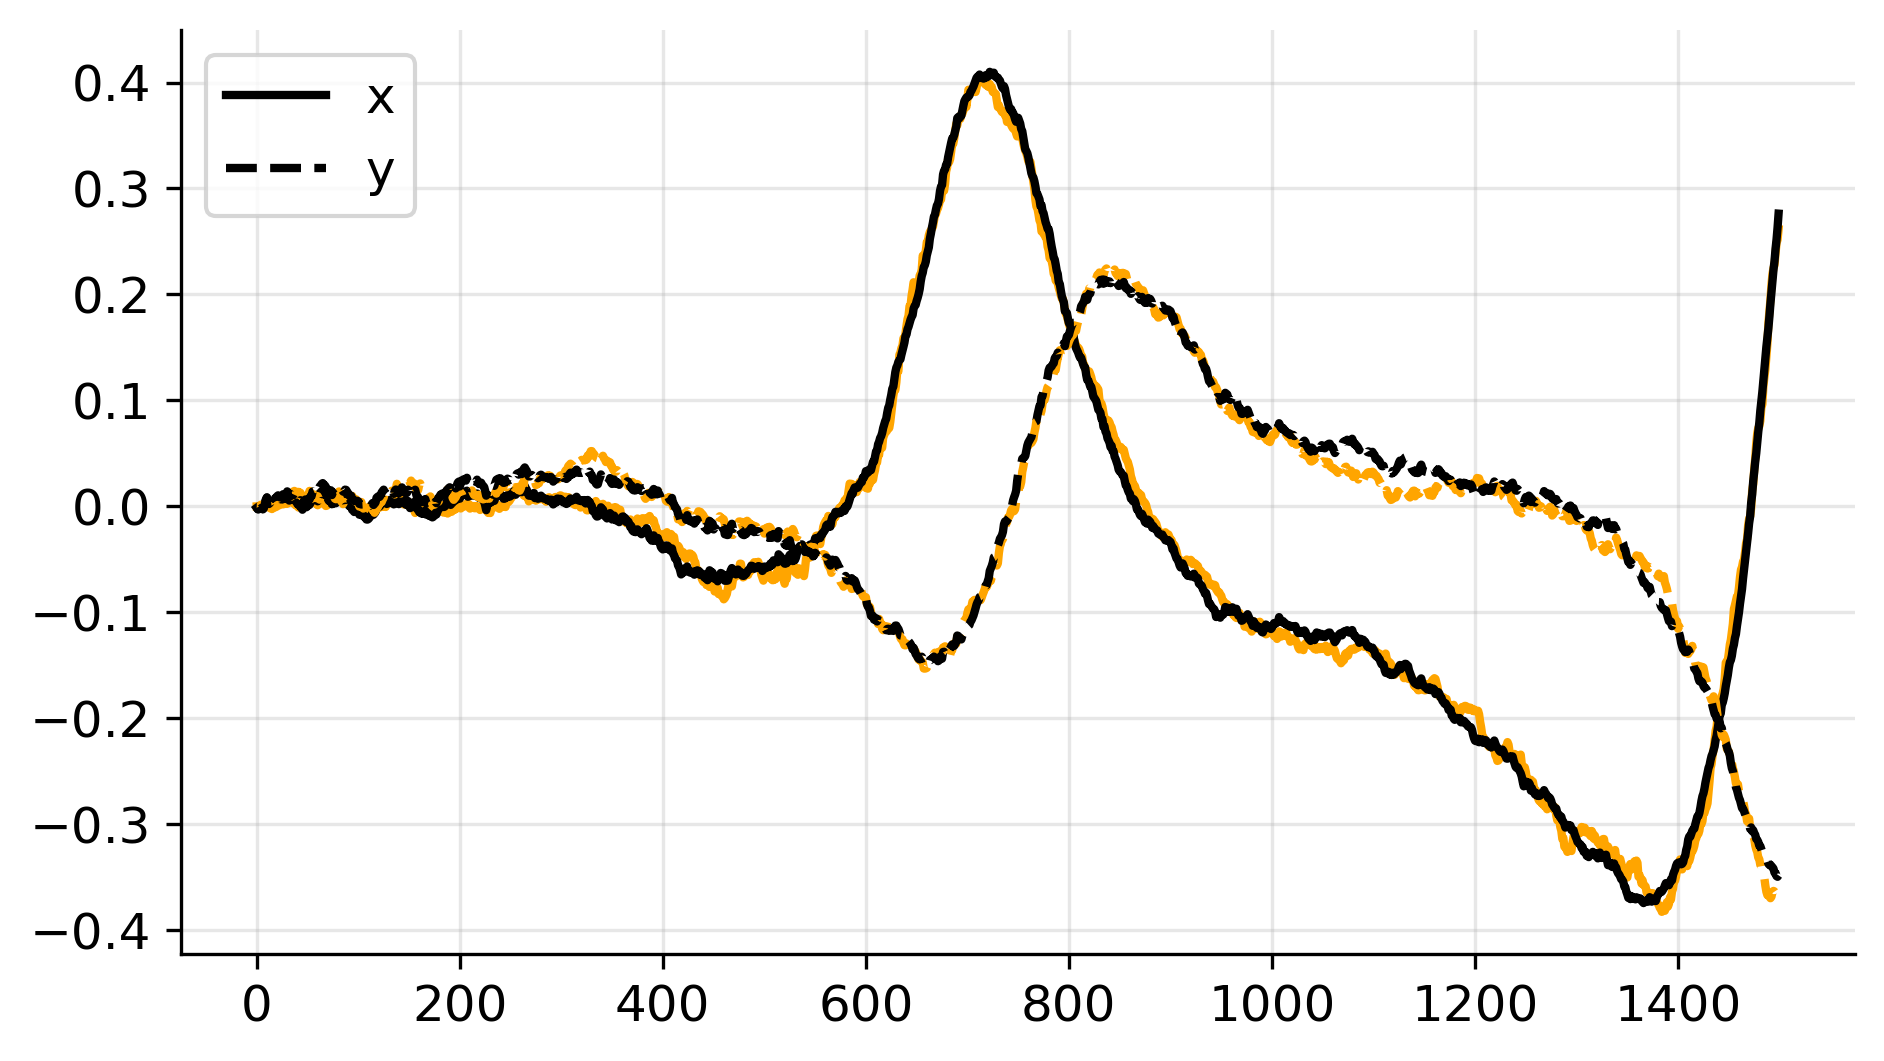
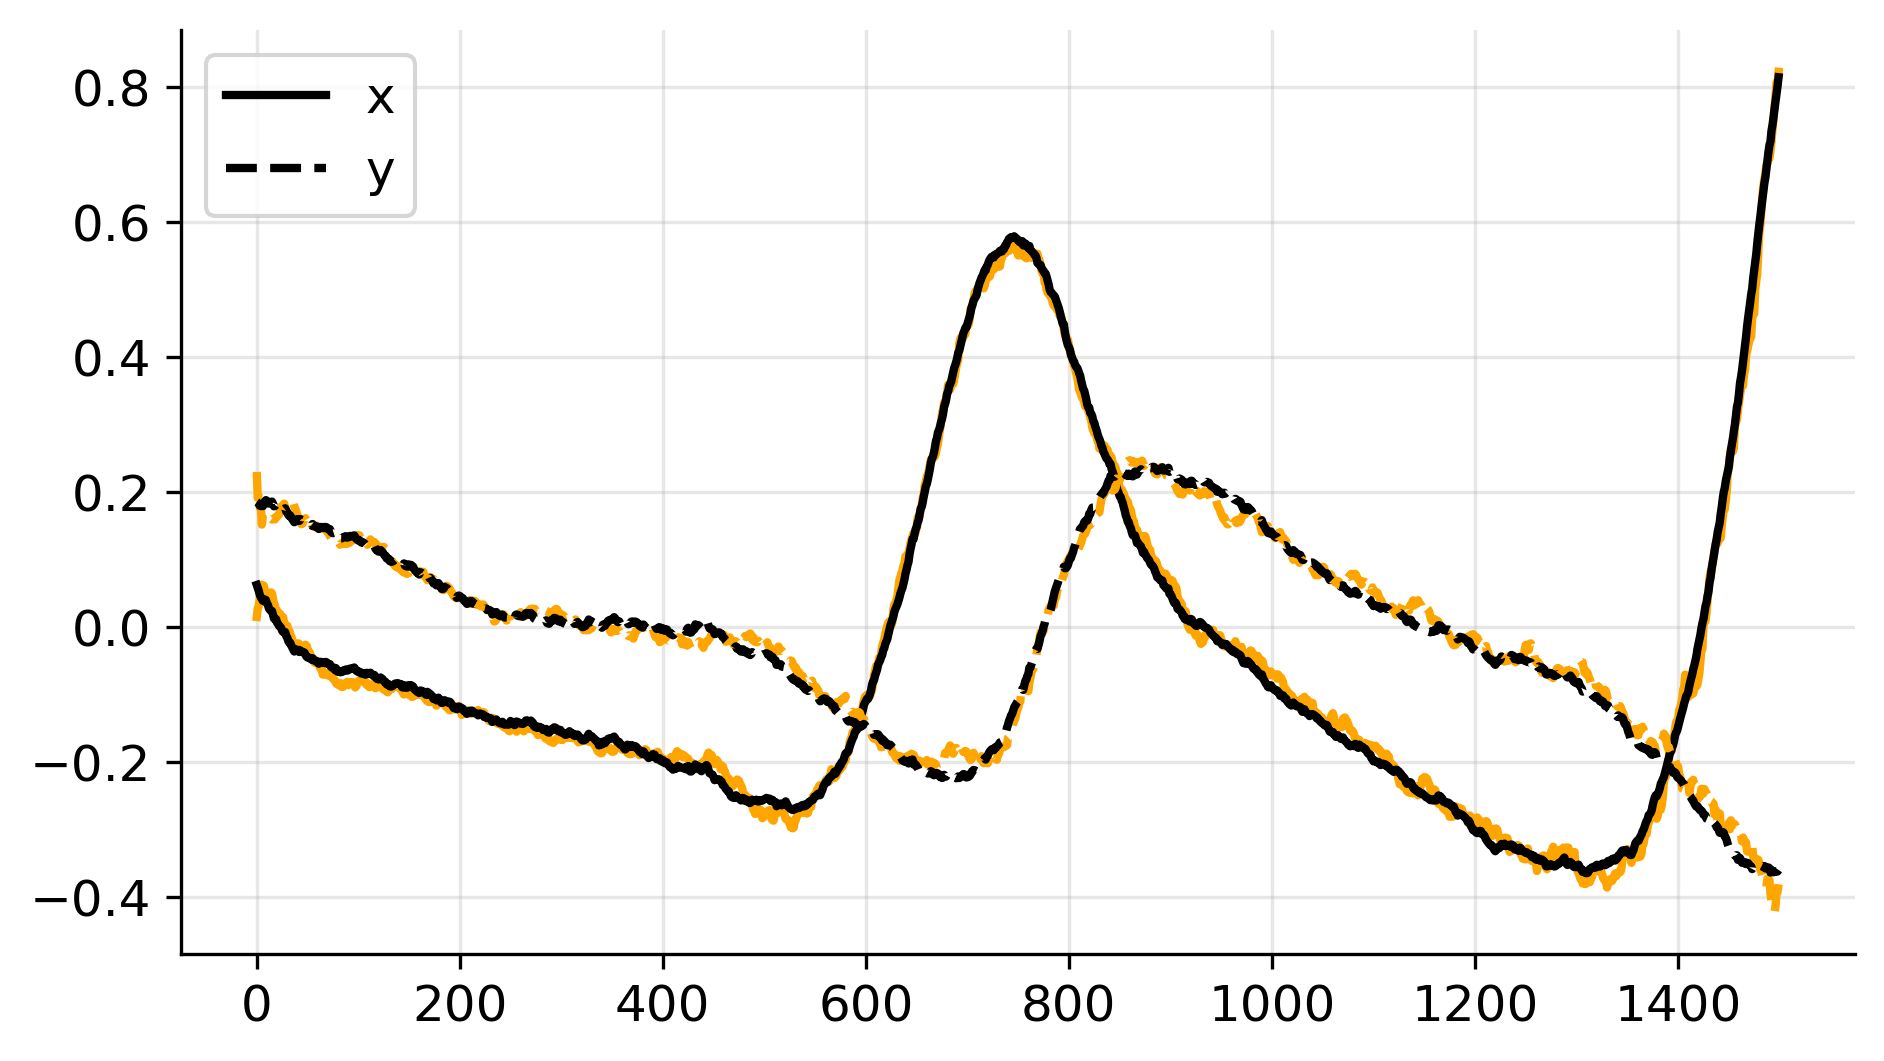
feat-post: kalman-filter-i
work on draft

diff --git a/content/posts/kalman-filter-i/index.md b/content/posts/kalman-filter-i/index.md
@@ -373,10 +373,33 @@ We assume we have access to a *train phase* where the quantities
 and a test-phase where
 BLUP estimates
 $(\text{F.1 -- F.4})$
-are obtained given a previously unseen run of innovations $\varepsilon_{1:T}$ derived from measurements $y_{1:T}$.
+are obtained given a previously unseen run of innovations $\varepsilon_{1:T}$ derived from measurements $y_{1:T}$
+not seen in the train phase.
 
 ## Noisy Lotka-Volterra model
+We assume that the signal-plus-noise model takes the form
+{{< math >}}
+$$
+\begin{aligned}
+    \frac{f_{t + \Delta, 1} - f_{t, 1}}{\Delta} &= \alpha\,f_{t,1} - \beta\,f_{t,1}\,f_{t,2} + \phi_{t,1},\\
+    \frac{f_{t + \Delta, 2} - f_{t, 2}}{\Delta} &= \delta\,f_{t,1}\,f_{t,2} - \gamma\,f_{t,2} + \phi_{t, 2},\\
+    y_{t  + \Delta, 1} &= f_{t + \Delta, 1} + \varphi_{t,1},\\
+    y_{t  + \Delta, 2} &= f_{t + \Delta, 2} + \varphi_{t,2},
+\end{aligned}
+$$
+with
+$\phi_{t,i} \sim {\cal N}(0, \sigma_f^2 / \Delta)$,
+$\varphi_{t,j} \sim {\cal N}(0, \sigma_y^2)$,
+$(i,j) \in \{0,1\}^2$, and
+$\sigma_f^2, \sigma_y^2 > 0$,
+The following plot shows a sample of this process.
+The black line shows the signal and the coloured line shows the measurement.
+
+{{< /math >}}
 ![sample-process](./samples-process.png)
+
+## Train phase
+![kalman-gain](./gain-matrix-sample.png)
 
 ## Test phase
 ![sample-run](./sample-run.png)
@@ -387,7 +410,11 @@ are obtained given a previously unseen run of innovations $\varepsilon_{1:T}$ de
 ### Smoothing
 ![test-smooth](./test-sample-smooth.png)
 
-### Fixed-lag
+### Prediction
+![test-smooth](./test-sample-prediction.png)
+
+
+### Varying lag
 ![test-varying-err](errs-sample-lag.png)
 
 
